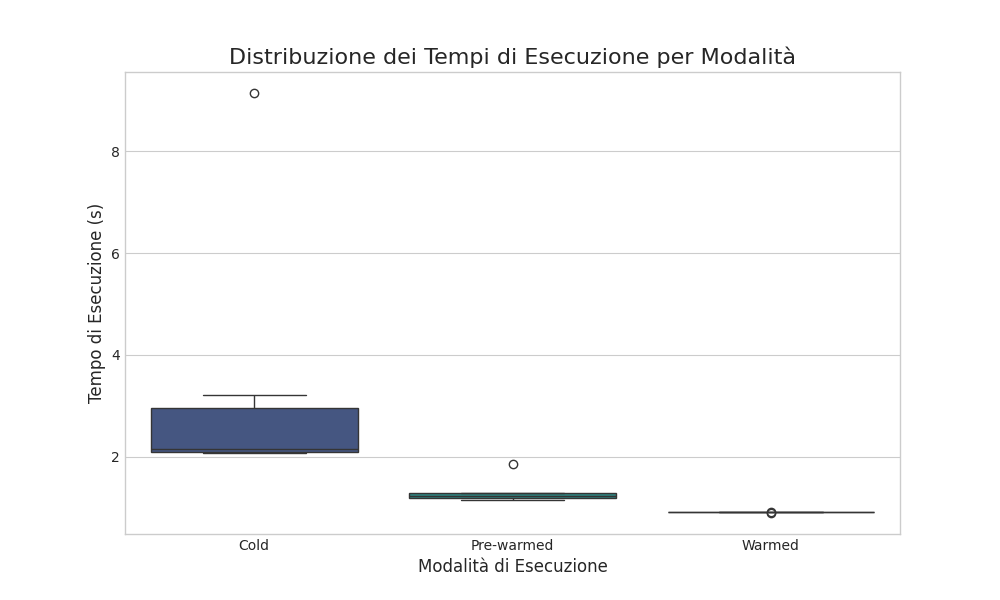
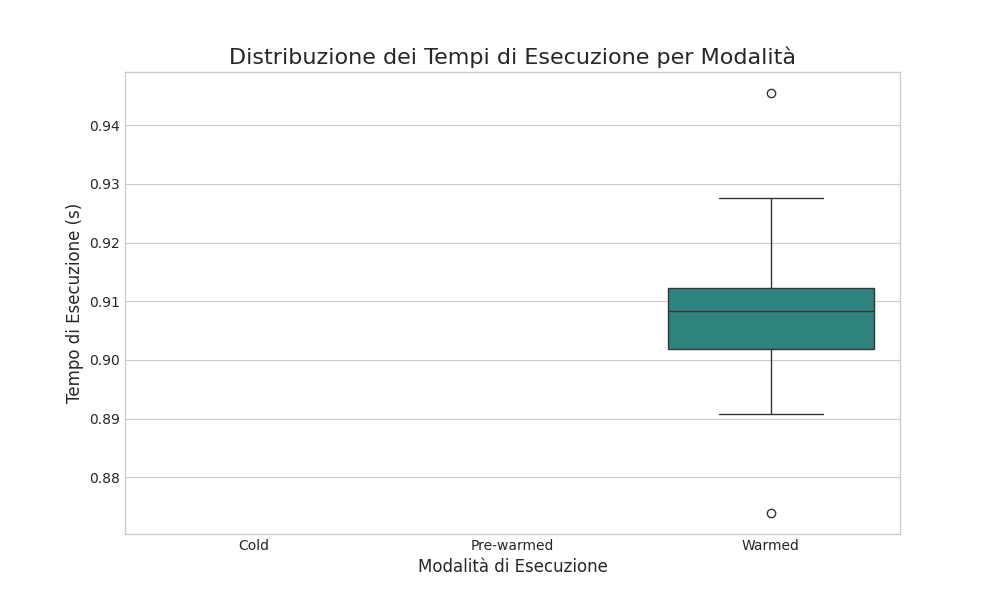
Removing CyclicWarmingPolicy, adding StaticWarmingPolicy

diff --git a/api_gateway/main.py b/api_gateway/main.py
@@ -152,25 +152,17 @@ class LeastUsedPolicy():
         
         return None, None
 
-class CyclicWarmingPolicy:
-    """Policy che determina e applica lo stato futuro di una funzione."""
-    async def apply(self, function_name: str):
-        # Determina quale dovrebbe essere lo stato per la prossima invocazione
-        next_policy_index = function_registry[function_name]["invocations"] % 3
-
-        next_state = None
-        if next_policy_index == 1:
-            next_state = "pre-warmed"
-        elif next_policy_index == 2:
-            next_state = "warmed"
-
-        if next_state:
+class StaticWarmingPolicy:
+    """
+    Sceglie se fare warming o pre-warming in base al valore passato alla funzione in modo statico
+    """
+    async def apply(self, warming_type: str, function_name):
+        if warming_type == "pre-warmed":
             node_to_prepare, _ = await DEFAULT_SCHEDULING_POLICY.select_node(node_registry, function_name)
-            if node_to_prepare:
-                if next_state == "pre-warmed":
-                    await _prewarm_function_on_node(function_name, node_to_prepare)
-                elif next_state == "warmed":
-                    await _warmup_function_on_node(function_name, node_to_prepare)
+            await _prewarm_function_on_node(function_name, node_to_prepare)
+        elif warming_type == "warmed":
+            node_to_prepare, _ = await DEFAULT_SCHEDULING_POLICY.select_node(node_registry, function_name)
+            await _warmup_function_on_node(function_name, node_to_prepare)
 
 class WarmedFirstPolicy:
     """
@@ -218,9 +210,13 @@ class DefaultColdPolicy:
 # DEFAULT_SCHEDULING_POLICY = RoundRobinPolicy()
 DEFAULT_SCHEDULING_POLICY = LeastUsedPolicy()
 
-WARMING_POLICY = CyclicWarmingPolicy()
+# WARMING_TYPE = "cold"
+# WARMING_TYPE = "pre-warmed"
+WARMING_TYPE = "warmed"
 
-NODE_SELECTION_POLICY = [DefaultColdPolicy(), PreWarmedFirstPolicy(), WarmedFirstPolicy()]
+SCHEDULING_POLICY = StaticWarmingPolicy()
+
+NODE_SELECTION_POLICY = WarmedFirstPolicy()
 
 def write_metrics_table(output_file="metrics_table.txt"):
     if not metrics_log:
@@ -256,7 +252,9 @@ async def register_function(req: RegisterFunctionRequest):
         first = False
     if req.name in function_registry:
         raise HTTPException(status_code=400, detail=f"Funzione '{req.name}' già registrata.")
-    function_registry[req.name] = {"image": req.image, "command": req.command, "invocations": 0}
+    function_registry[req.name] = {"image": req.image, "command": req.command}
+
+    await SCHEDULING_POLICY.apply(WARMING_TYPE, req.name)
 
 @app.post("/nodes/register")
 def register_node(req: RegisterNodeRequest):
@@ -278,8 +276,7 @@ async def invoke_function(function_name: str):
         raise HTTPException(status_code=503, detail="Nessun nodo disponibile per l'esecuzione.")
 
     function_details = function_registry[function_name]
-    policy_index = function_details["invocations"] % 3
-    node_name, metric_to_write, execution_mode = await NODE_SELECTION_POLICY[policy_index].select_node(function_name)
+    node_name, metric_to_write, execution_mode = await NODE_SELECTION_POLICY.select_node(function_name)
 
     node_info = node_registry[node_name]
 
@@ -293,16 +290,6 @@ async def invoke_function(function_name: str):
             image_name = function_details["image"]
             docker_cmd = f"sudo docker run --rm {image_name} {command_to_run}"
             output = await _run_ssh_command_async(node_info, docker_cmd)
-
-        # Se era pre-warmed, ora è "usato".
-        if execution_mode == "Pre-warmed":
-            function_state_registry[function_name][node_name] = "cold"
-        if "Cold" in execution_mode:
-            remove_command = f"sudo docker rmi {image_name}"
-            await _run_ssh_command_async(node_info, remove_command)
-        function_details["invocations"] += 1
-
-        await WARMING_POLICY.apply(function_name)
 
         end_time = time.perf_counter()
         duration = end_time - start_time
